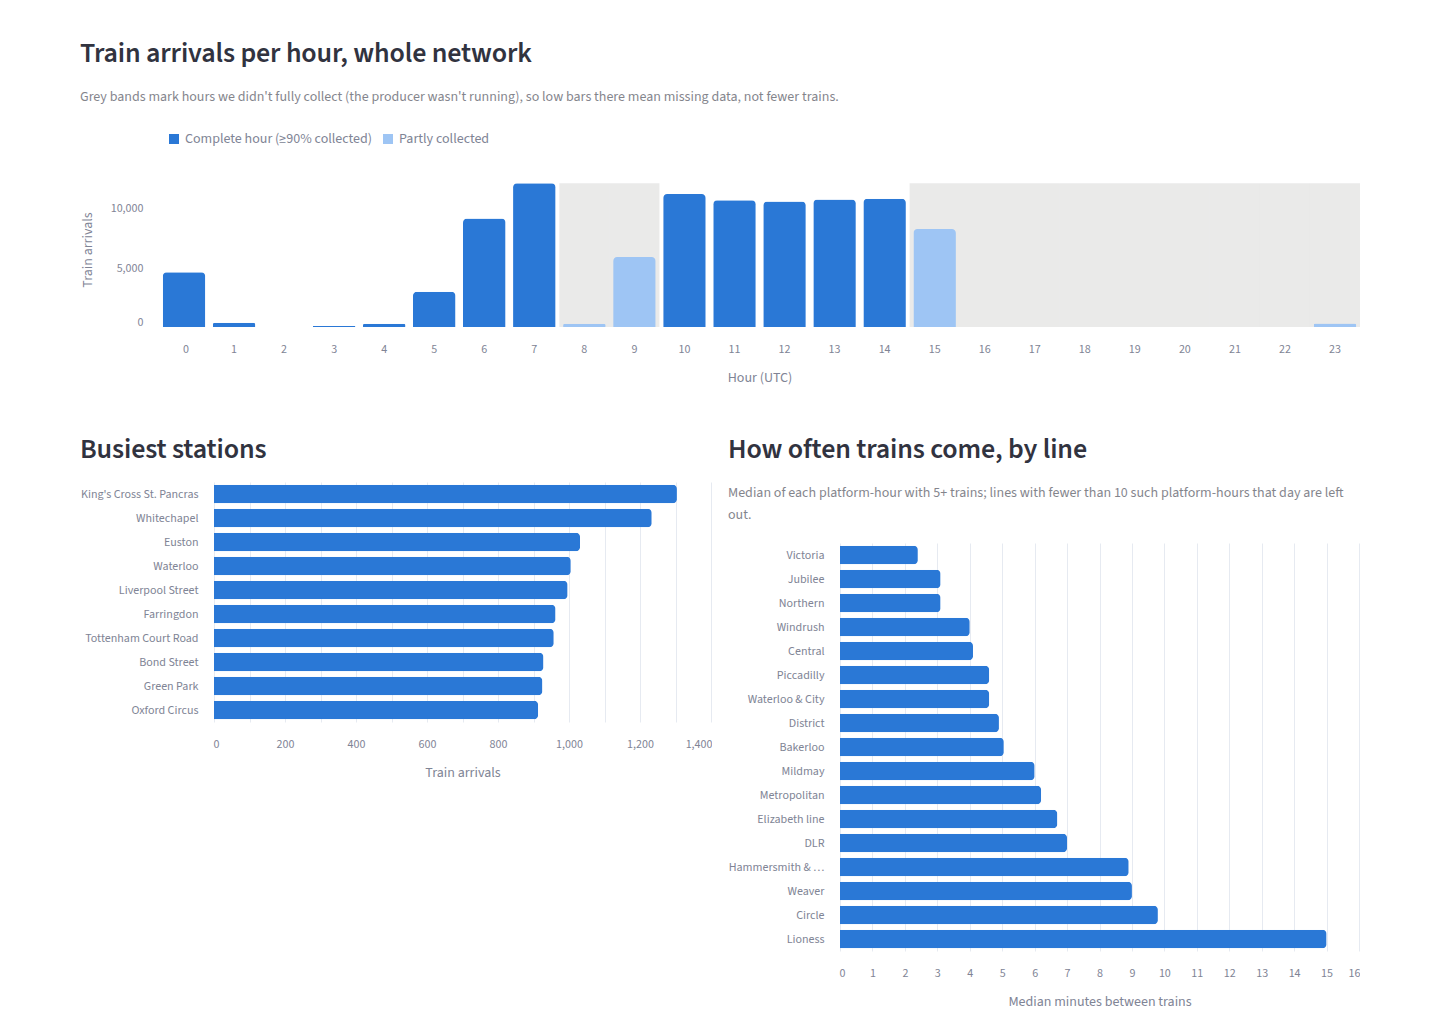
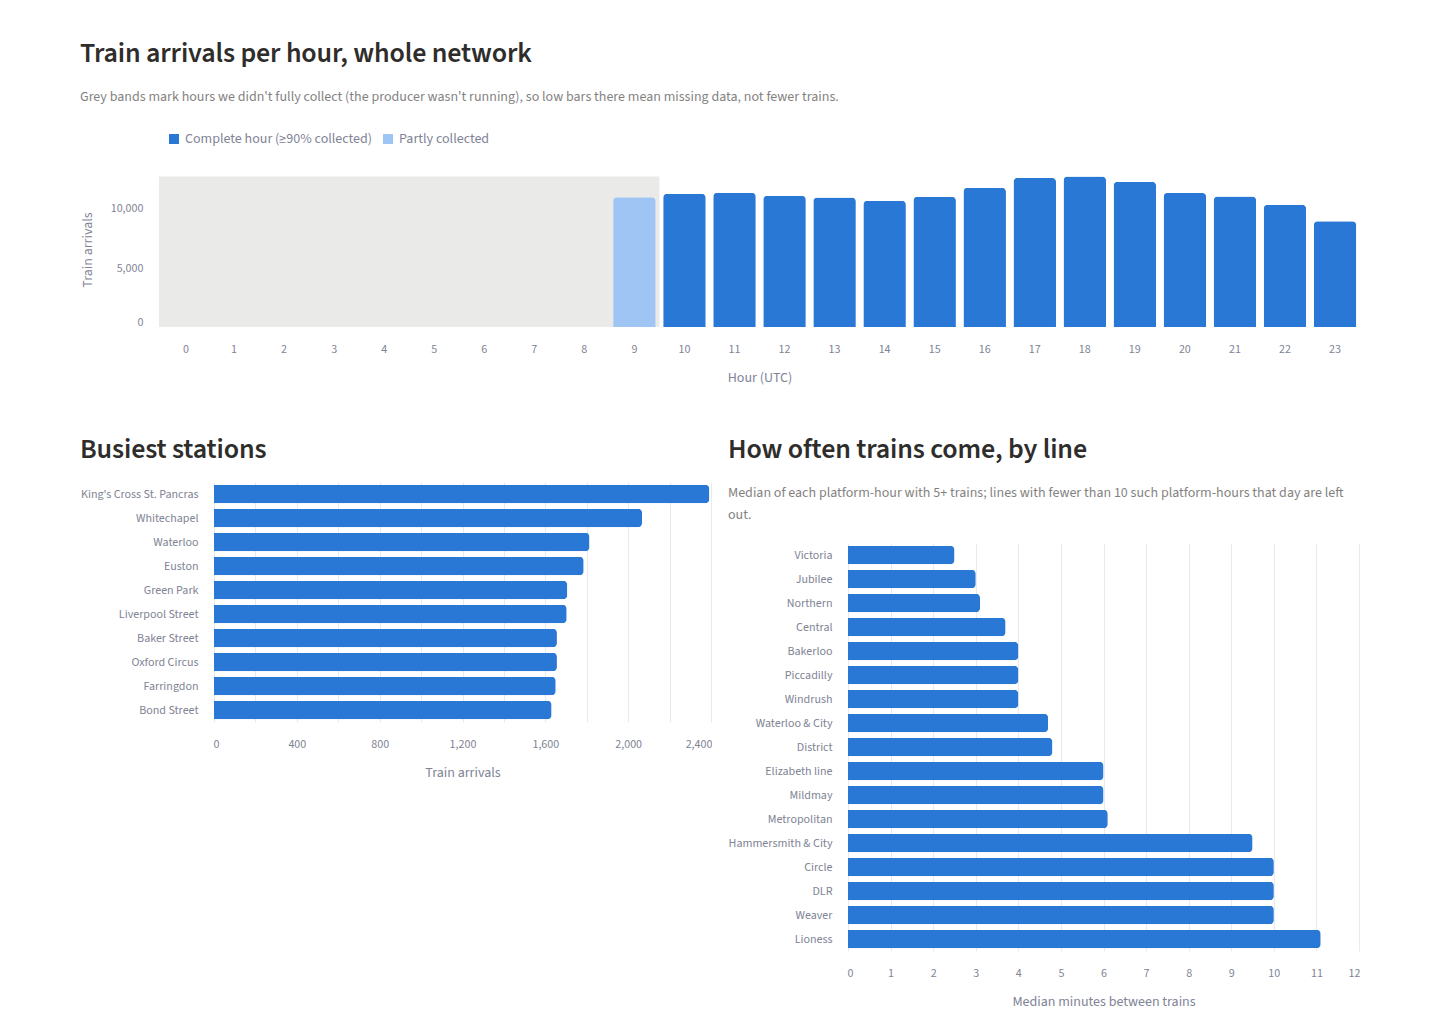
README: results from the first automated day (5 November), new screenshots

diff --git a/README.md b/README.md
@@ -23,6 +23,24 @@ backfills. All AWS infrastructure is provisioned by **Terraform**.
 Gzip compression reduces the raw JSON about **17×** on disk; for one day, 43 MB of bronze
 becomes 18.6 MiB of silver Parquet and a few kilobytes of gold.
 
+## Results: the first automated day (5 November 2026)
+
+5 November is the first day collected on EC2 and processed by the nightly batch without any
+manual step: the batch instance was started at 01:00 UTC on 6 November, processed the day,
+shut itself down, and the dashboard showed it the same morning, with no alarm overnight.
+
+| Measure | Result |
+|---|---|
+| Data collected | **14.7 of 24 hours** (884 polls): from 09:10 UTC, when collection started, every hour from 10:00 to 23:00 was complete |
+| Train arrivals | **167,009** at **463** stations |
+| Busiest stations | King's Cross St. Pancras **2,392** arrivals, Whitechapel 2,067, Waterloo 1,813 |
+| Busiest hour | **18:00 UTC: 12,624 arrivals**, the evening peak (17:00: 12,504) |
+| Most frequent service | **Victoria line**, a median of **2.5 minutes** between trains; Jubilee and Northern about 3 |
+| Disruptions | **10 lines**; the Suffragette line was part-closed for all 884 observed minutes, the Central line had minor delays for 611 minutes and the District line for 548 |
+
+The hours before 09:10 are greyed out on the dashboard as "not collected", so the missing
+morning isn't mistaken for a quiet network. Results will be extended as more days are collected.
+
 ## Architecture
 
 ```mermaid
@@ -279,8 +297,8 @@ was collected that day, **red** = a real problem to investigate.
 
 **Live:** [tfl-london-network.streamlit.app](https://tfl-london-network.streamlit.app/), hosted on Streamlit Community Cloud ([`dashboard/app.py`](dashboard/app.py)).
 
-![Dashboard overview: KPI tiles and minutes in a non-good status per line](docs/images/dashboard-overview.png)
-![Dashboard detail: train arrivals per hour with coverage, busiest stations, time between trains](docs/images/dashboard-detail.png)
+![Dashboard for 5 November: KPI tiles and minutes in a non-good status per line](docs/images/dashboard-overview.png)
+![Dashboard for 5 November: train arrivals per hour with uncollected hours greyed out, busiest stations, time between trains](docs/images/dashboard-detail.png)
 
 Pick a day and the page shows that day's gold data:
 
@@ -597,4 +615,4 @@ docker-compose.yml     local stack: Kafka, Kafka UI, producer and consumer
 | 5 | Airflow orchestration: daily DAG, data quality checks, skip on missing data, backfills, DAG tests in CI | ✅ Done |
 | 6 | Streamlit dashboard on Athena, deployed publicly with a read-only IAM user | ✅ Done |
 | 7 | Production on AWS: Docker images, 24/7 stream on EC2, nightly scheduled batch, monitoring and alarms, cost cap, continuous deployment | ✅ Done |
-| 8 | Results from the 24/7 run (days collected, coverage, events per day, actual cost); prediction-accuracy analysis | ⏳ Next |
+| 8 | Results from the 24/7 run: first automated day ✅; next, several weeks of days, average coverage, actual cost, and a prediction-accuracy analysis | ⏳ In progress |
